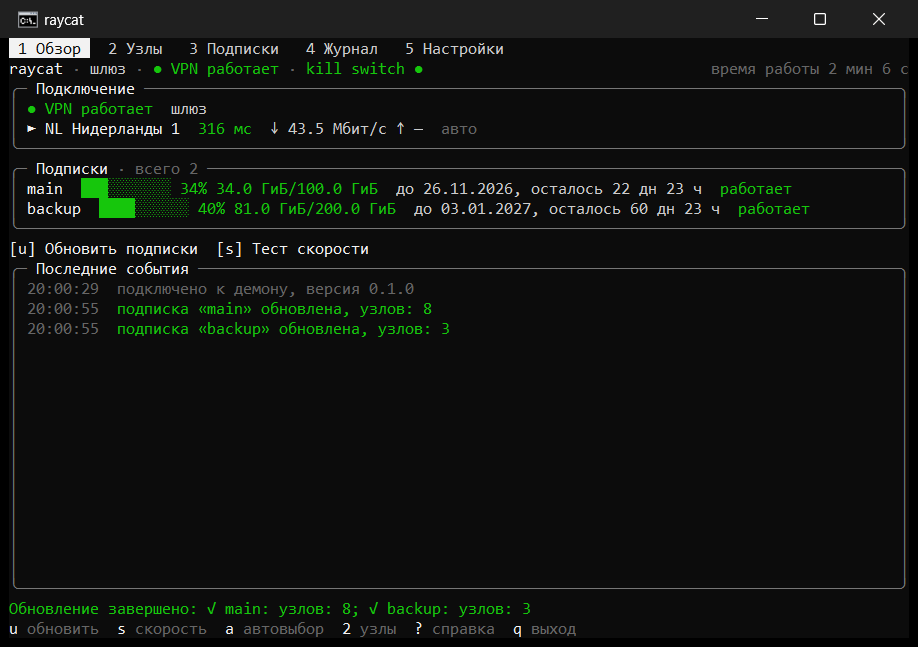
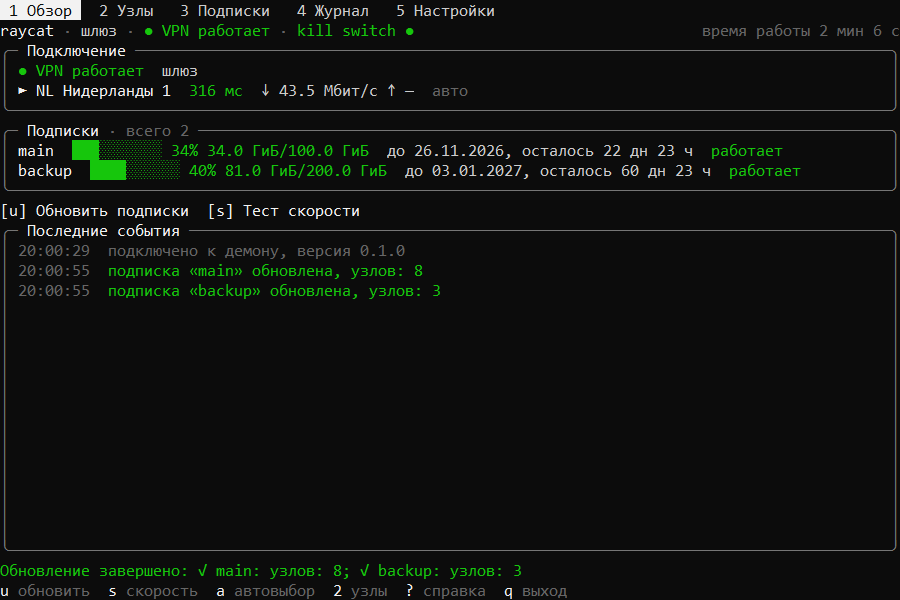
docs: логотип в SVG, оформление README, понятнее настройки (#143)
Логотип перерисован в SVG: белый кот на тёмной плитке, виден на светлой и тёмной теме. Скриншоты обрезаны до интерфейса. README оформлен блоками GitHub, таблицей режимов и клавишами. В примере настроек понятнее описаны режим шлюза и свои правила маршрутизации.

Changed region(s): [[0.0, 0.0, 1.0, 1.0], [0.7778, 0.03, 1.0, 0.06]]

diff --git a/README.md b/README.md
@@ -1,24 +1,24 @@
 <div align="center">
 
-<picture>
-  <source media="(prefers-color-scheme: dark)" srcset="assets/logo-dark.png">
-  <img src="assets/logo.png" alt="raycat" width="180">
-</picture>
+<img src="assets/logo.svg" alt="raycat" width="168">
 
 # raycat
 
-VPN-подписка для Linux-сервера: контейнеры, весь сервер или домашняя сеть выходят в интернет через неё
+**VPN-подписка для Linux-сервера.**<br>
+Нужные контейнеры, весь сервер или домашняя сеть выходят в интернет через неё.
 
 [![Версия](https://img.shields.io/github/v/release/raycat-app/raycat?include_prereleases&style=flat-square&label=версия&color=2d333b)](https://github.com/raycat-app/raycat/releases)
 [![Лицензия](https://img.shields.io/badge/лицензия-MIT-2d333b?style=flat-square)](LICENSE)
 
-Русский · [English](README.en.md)
+[Запуск](#запуск) · [Режимы](#режимы) · [Управление](#управление) · [Настройки](#настройки) · [Вопросы](#вопросы-и-ошибки) · [English](README.en.md)
+
+<br>
+
+<img src="assets/tui.png" alt="raycat tui: обзор" width="820">
 
 </div>
 
-<p align="center">
-  <img src="assets/tui.png" alt="raycat tui: обзор" width="820">
-</p>
+<br>
 
 Вы даёте raycat ссылку на подписку, и он держит туннель на сервере. Настраивать сами приложения не нужно. Если узел умер, raycat переключится на живой. Если живых не осталось, трафик не уйдёт мимо VPN.
 
@@ -31,13 +31,13 @@ VPN-подписка для Linux-сервера: контейнеры, весь
 
 ### В Docker
 
-Контейнер `app` здесь ваше приложение: весь его трафик пойдёт через VPN.
+Через VPN пойдут только контейнеры, которые вы подключите к raycat. Остальной сервер и другие контейнеры работают как обычно.
 
 `raycat/config.toml`:
 
 ```toml
 [[subscription]]
-url = "https://…"       # ссылка подписки, никому её не показывайте
+url = "https://…"       # ссылка подписки
 app = "happ"            # какое приложение принимает провайдер: happ или incy
 platform = "windows"    # windows или android (у incy только android)
 
@@ -45,7 +45,10 @@ platform = "windows"    # windows или android (у incy только android)
 type = "gateway"
 ```
 
-`compose.yml` рядом с каталогом `raycat`:
+> [!CAUTION]
+> Ссылка подписки работает как пароль. Не публикуйте её и не храните в открытых репозиториях.
+
+`compose.yml` рядом с каталогом `raycat`. Контейнер `app` здесь ваше приложение:
 
 ```yaml
 services:
@@ -60,7 +63,7 @@ services:
 
   app:
     image: ваше-приложение
-    network_mode: service:raycat
+    network_mode: service:raycat   # эта строка пускает контейнер через VPN
     depends_on:
       raycat:
         condition: service_healthy
@@ -84,24 +87,42 @@ sudo systemctl start raycat
 sudo raycat tui
 ```
 
-Режим `proxy` оставляет остальной трафик сервера как есть и открывает прокси HTTP и SOCKS5 на `127.0.0.1:7890`. Режим `gateway` пускает через VPN весь сервер.
+## Режимы
 
-## Что умеет
+| Что идёт через VPN | Как запустить | Настройка |
+| --- | --- | --- |
+| **Отдельные контейнеры** | raycat в Docker, у контейнеров `network_mode: service:raycat` | `type = "gateway"` |
+| **Весь сервер** | raycat службой на сервере | `type = "gateway"` |
+| **Отдельные программы** | прокси HTTP и SOCKS5 на `127.0.0.1:7890` | `type = "proxy"` |
+| **Домашняя сеть** | raycat в сети хоста, сервер указан шлюзом на устройствах | `type = "gateway"`, `lan = true` |
 
-- **Несколько подписок.** Основная и резервные, порядок и приоритет настраиваются.
-- **Выбор узла.** Проверяет узлы сам, переключается при сбое, узел можно закрепить или исключить масками вроде `Обход*`.
-- **Шлюз для домашней сети.** Телевизор или приставка выходят через сервер, если указать его шлюзом.
-- **Россия напрямую.** С `ru_direct = true` российские сайты идут мимо VPN.
-- **Kill switch.** В режиме шлюза без туннеля трафик не выходит наружу, и DNS тоже.
-- **Лёгкий.** Статические сборки для x86_64, arm64 и armv7, работает даже на Raspberry Pi.
+> [!IMPORTANT]
+> Kill switch работает в режиме `gateway`: без туннеля трафик и DNS не выходят наружу. В режиме `proxy` программы, которые не используют прокси, ходят напрямую.
+
+**Ещё raycat умеет:**
+
+- держать основную и резервные подписки и менять их порядок на лету;
+- проверять узлы и переключаться при сбое, закреплять узел или исключать узлы масками вроде `Обход*`;
+- пускать российские сайты мимо VPN (`ru_direct = true`);
+- работать там же, где и ваш сервер: сборки для x86_64, arm64 и armv7, в том числе Raspberry Pi.
 
 ## Управление
 
-`raycat tui` показывает всё на одном экране и работает с мышью: состояние, узлы, подписки, журнал и настройки. Настройки можно менять прямо там.
+`raycat tui` показывает всё на одном экране и работает с мышью. Настройки можно менять прямо там.
 
-<p align="center">
+<div align="center">
   <img src="assets/tui-nodes.png" alt="raycat tui: узлы" width="820">
-</p>
+</div>
+
+<br>
+
+| Клавиша | Вкладка | Что там можно сделать |
+| --- | --- | --- |
+| <kbd>1</kbd> | Обзор | увидеть состояние туннеля, обновить подписки, проверить скорость |
+| <kbd>2</kbd> | Узлы | закрепить узел <kbd>p</kbd>, исключить <kbd>x</kbd>, скрыть мёртвые <kbd>d</kbd>, проверить скорость <kbd>t</kbd> |
+| <kbd>3</kbd> | Подписки | изменить маски <kbd>m</kbd> и порядок <kbd>[</kbd> <kbd>]</kbd> |
+| <kbd>4</kbd> | Журнал | посмотреть события, только предупреждения <kbd>w</kbd> |
+| <kbd>5</kbd> | Настройки | поменять основные настройки |
 
 То же самое есть в командах:
 
@@ -122,10 +143,37 @@ sudo raycat tui
 
 Настройки лежат в одном файле: `/etc/raycat/config.toml` на сервере, `raycat/config.toml` в примере с Docker. Все ключи с пояснениями есть в [примере настроек](deploy/config.example.toml), при опечатке raycat подскажет правильное название.
 
-После правки выполните `sudo raycat reload`. Демон применит то, что можно применить на лету, а про остальное скажет, что нужен перезапуск.
+> [!TIP]
+> После правки выполните `sudo raycat reload`. Демон применит то, что можно применить на лету, а про остальное скажет, что нужен перезапуск.
 
 <details>
-<summary>Домашняя сеть</summary>
+<summary><b>Свои правила: что пускать мимо VPN</b></summary>
+
+<br>
+
+Обычно весь трафик идёт через VPN. Правила нужны для исключений. Например, открывать сайт банка напрямую, а один российский сайт, наоборот, через VPN:
+
+```toml
+[routing]
+ru_direct = true
+
+[[routing.rule]]
+domains = ["mybank.example"]
+action = "direct"             # direct: мимо VPN
+
+[[routing.rule]]
+domains = ["*.example.ru"]    # *.example.ru: сам сайт и его поддомены
+action = "proxy"              # proxy: через VPN, block: заблокировать
+```
+
+Правила проверяются сверху вниз, срабатывает первое подошедшее. Они важнее `ru_direct`. Вместо `domains` или вместе с ними можно указать `ips`: подсети или отдельные адреса.
+
+</details>
+
+<details>
+<summary><b>Домашняя сеть</b></summary>
+
+<br>
 
 raycat должен работать в сети самого хоста: как служба или в Docker с `network_mode: host`.
 
@@ -140,7 +188,9 @@ lan = true
 </details>
 
 <details>
-<summary>Переменные окружения</summary>
+<summary><b>Переменные окружения</b></summary>
+
+<br>
 
 Перекрывают файл настроек, удобно в Docker.
 
@@ -156,7 +206,9 @@ lan = true
 </details>
 
 <details>
-<summary>Если что-то не работает</summary>
+<summary><b>Если что-то не работает</b></summary>
+
+<br>
 
 **Провайдер не отдаёт узлы.** Запустите `raycat fetch <подписка>`: команда покажет ответ провайдера. Ошибки 403 и 404 обычно значат, что нужно другое приложение или платформа. Ещё бывает, что исчерпан лимит устройств или закончился срок подписки.
 
@@ -171,7 +223,9 @@ lan = true
 </details>
 
 <details>
-<summary>Обновления и проверка сборок</summary>
+<summary><b>Обновления и проверка сборок</b></summary>
+
+<br>
 
 Есть два канала. `dev` собирается из каждого изменения. `stable` выходит сам, когда сборка выдержала срок на dev. Обновления xray и исправления уязвимостей выходят сразу. Обновить установку на сервере можно той же командой установки, настройки сохранятся. Удалить: `sudo sh install.sh --uninstall`.
 

diff --git a/README.en.md b/README.en.md
@@ -1,24 +1,24 @@
 <div align="center">
 
-<picture>
-  <source media="(prefers-color-scheme: dark)" srcset="assets/logo-dark.png">
-  <img src="assets/logo.png" alt="raycat" width="180">
-</picture>
+<img src="assets/logo.svg" alt="raycat" width="168">
 
 # raycat
 
-A VPN subscription for your Linux server: containers, the whole server or your home network go online through it
+**A VPN subscription for your Linux server.**<br>
+Chosen containers, the whole server or your home network go online through it.
 
 [![Version](https://img.shields.io/github/v/release/raycat-app/raycat?include_prereleases&style=flat-square&label=version&color=2d333b)](https://github.com/raycat-app/raycat/releases)
 [![License](https://img.shields.io/badge/license-MIT-2d333b?style=flat-square)](LICENSE)
 
-[Русский](README.md) · English
+[Getting started](#getting-started) · [Modes](#modes) · [Managing it](#managing-it) · [Settings](#settings) · [Questions](#questions-and-bugs) · [Русский](README.md)
+
+<br>
+
+<img src="assets/tui.png" alt="raycat tui: overview" width="820">
 
 </div>
 
-<p align="center">
-  <img src="assets/tui.png" alt="raycat tui: overview" width="820">
-</p>
+<br>
 
 You give raycat a subscription link, and it keeps a tunnel running on the server. You don't have to configure the applications themselves. If a node dies, raycat switches to a live one. If none are left, traffic does not leave outside the VPN.
 
@@ -31,13 +31,13 @@ Many providers only hand their subscriptions to their own apps. raycat requests 
 
 ### In Docker
 
-The `app` container here is your application: all its traffic goes through the VPN.
+Only the containers you attach to raycat go through the VPN. The rest of the server and other containers work as usual.
 
 `raycat/config.toml`:
 
 ```toml
 [[subscription]]
-url = "https://…"       # the subscription link, keep it private
+url = "https://…"       # the subscription link
 app = "happ"            # the app your provider accepts: happ or incy
 platform = "windows"    # windows or android (incy is android only)
 
@@ -45,7 +45,10 @@ platform = "windows"    # windows or android (incy is android only)
 type = "gateway"
 ```
 
-`compose.yml` next to the `raycat` directory:
+> [!CAUTION]
+> The subscription link works like a password. Don't publish it or keep it in public repositories.
+
+`compose.yml` next to the `raycat` directory. The `app` container here is your application:
 
 ```yaml
 services:
@@ -60,7 +63,7 @@ services:
 
   app:
     image: your-application
-    network_mode: service:raycat
+    network_mode: service:raycat   # this line sends the container through the VPN
     depends_on:
       raycat:
         condition: service_healthy
@@ -84,24 +87,42 @@ sudo systemctl start raycat
 sudo raycat tui
 ```
 
-`proxy` mode leaves the rest of the server's traffic alone and opens an HTTP and SOCKS5 proxy on `127.0.0.1:7890`. `gateway` mode sends the whole server through the VPN.
+## Modes
 
-## What it does
+| What goes through the VPN | How to run it | Setting |
+| --- | --- | --- |
+| **Chosen containers** | raycat in Docker, containers with `network_mode: service:raycat` | `type = "gateway"` |
+| **The whole server** | raycat as a service on the server | `type = "gateway"` |
+| **Chosen programs** | an HTTP and SOCKS5 proxy on `127.0.0.1:7890` | `type = "proxy"` |
+| **Your home network** | raycat in the host network, the server set as the gateway on devices | `type = "gateway"`, `lan = true` |
 
-- **Several subscriptions.** A main one and backups, with configurable order and priority.
-- **Node selection.** Checks nodes itself and switches on failure. You can pin a node or exclude nodes with masks like `Bypass*`.
-- **Gateway for your home network.** A TV or console goes online through the server once you set it as the gateway.
-- **Russia direct.** With `ru_direct = true`, Russian sites bypass the VPN.
-- **Kill switch.** In gateway mode, nothing leaves without the tunnel, DNS included.
-- **Lightweight.** Static builds for x86_64, arm64 and armv7. It runs even on a Raspberry Pi.
+> [!IMPORTANT]
+> The kill switch works in `gateway` mode: without the tunnel, traffic and DNS do not leave. In `proxy` mode, programs that don't use the proxy go direct.
+
+**raycat can also:**
+
+- keep a main subscription and backups and reorder them on the fly;
+- check nodes and switch on failure, pin a node or exclude nodes with masks like `Bypass*`;
+- send Russian sites around the VPN (`ru_direct = true`);
+- run wherever your server does: builds for x86_64, arm64 and armv7, including Raspberry Pi.
 
 ## Managing it
 
-`raycat tui` shows everything on one screen and works with a mouse: status, nodes, subscriptions, the log and settings. You can change settings right there.
+`raycat tui` shows everything on one screen and works with a mouse. You can change settings right there.
 
-<p align="center">
+<div align="center">
   <img src="assets/tui-nodes.png" alt="raycat tui: nodes" width="820">
-</p>
+</div>
+
+<br>
+
+| Key | Tab | What you can do there |
+| --- | --- | --- |
+| <kbd>1</kbd> | Overview | see the tunnel state, update subscriptions, test the speed |
+| <kbd>2</kbd> | Nodes | pin a node <kbd>p</kbd>, exclude it <kbd>x</kbd>, hide dead ones <kbd>d</kbd>, test the speed <kbd>t</kbd> |
+| <kbd>3</kbd> | Subscriptions | change masks <kbd>m</kbd> and the order <kbd>[</kbd> <kbd>]</kbd> |
+| <kbd>4</kbd> | Log | see events, warnings only <kbd>w</kbd> |
+| <kbd>5</kbd> | Settings | change the main settings |
 
 The same things are available as commands:
 
@@ -122,10 +143,37 @@ The same things are available as commands:
 
 Settings live in one file: `/etc/raycat/config.toml` on a server, `raycat/config.toml` in the Docker example. Every key is explained in the [example settings](deploy/config.example.toml), and raycat suggests the right name if you make a typo.
 
-After editing, run `sudo raycat reload`. The daemon applies what it can on the fly and tells you if something needs a restart.
+> [!TIP]
+> After editing, run `sudo raycat reload`. The daemon applies what it can on the fly and tells you if something needs a restart.
 
 <details>
-<summary>Home network</summary>
+<summary><b>Your own rules: what goes around the VPN</b></summary>
+
+<br>
+
+Normally all traffic goes through the VPN. Rules are for exceptions. For example, open your bank's site directly, and send one Russian site through the VPN instead:
+
+```toml
+[routing]
+ru_direct = true
+
+[[routing.rule]]
+domains = ["mybank.example"]
+action = "direct"             # direct: around the VPN
+
+[[routing.rule]]
+domains = ["*.example.ru"]    # *.example.ru: the site and its subdomains
+action = "proxy"              # proxy: through the VPN, block: block it
+```
+
+Rules are checked from top to bottom, and the first match wins. They take priority over `ru_direct`. Instead of `domains`, or together with them, you can set `ips`: subnets or single addresses.
+
+</details>
+
+<details>
+<summary><b>Home network</b></summary>
+
+<br>
 
 raycat must run in the host's own network: as a service, or in Docker with `network_mode: host`.
 
@@ -140,7 +188,9 @@ On the device or in your router's DHCP, set the server's address as the gateway 
 </details>
 
 <details>
-<summary>Environment variables</summary>
+<summary><b>Environment variables</b></summary>
+
+<br>
 
 These override the settings file, which is handy in Docker.
 
@@ -156,7 +206,9 @@ These override the settings file, which is handy in Docker.
 </details>
 
 <details>
-<summary>Troubleshooting</summary>
+<summary><b>Troubleshooting</b></summary>
+
+<br>
 
 **The provider returns no nodes.** Run `raycat fetch <subscription>` to see the provider's response. Errors 403 and 404 usually mean you need a different app or platform. The device limit may also be used up, or the subscription may have expired.
 
@@ -171,7 +223,9 @@ These override the settings file, which is handy in Docker.
 </details>
 
 <details>
-<summary>Updates and verifying builds</summary>
+<summary><b>Updates and verifying builds</b></summary>
+
+<br>
 
 There are two channels. `dev` is built from every change. `stable` ships by itself once a build has spent enough time on dev. xray updates and vulnerability fixes ship immediately. To update a server install, run the install command again, and your settings stay. To remove it: `sudo sh install.sh --uninstall`.
 
